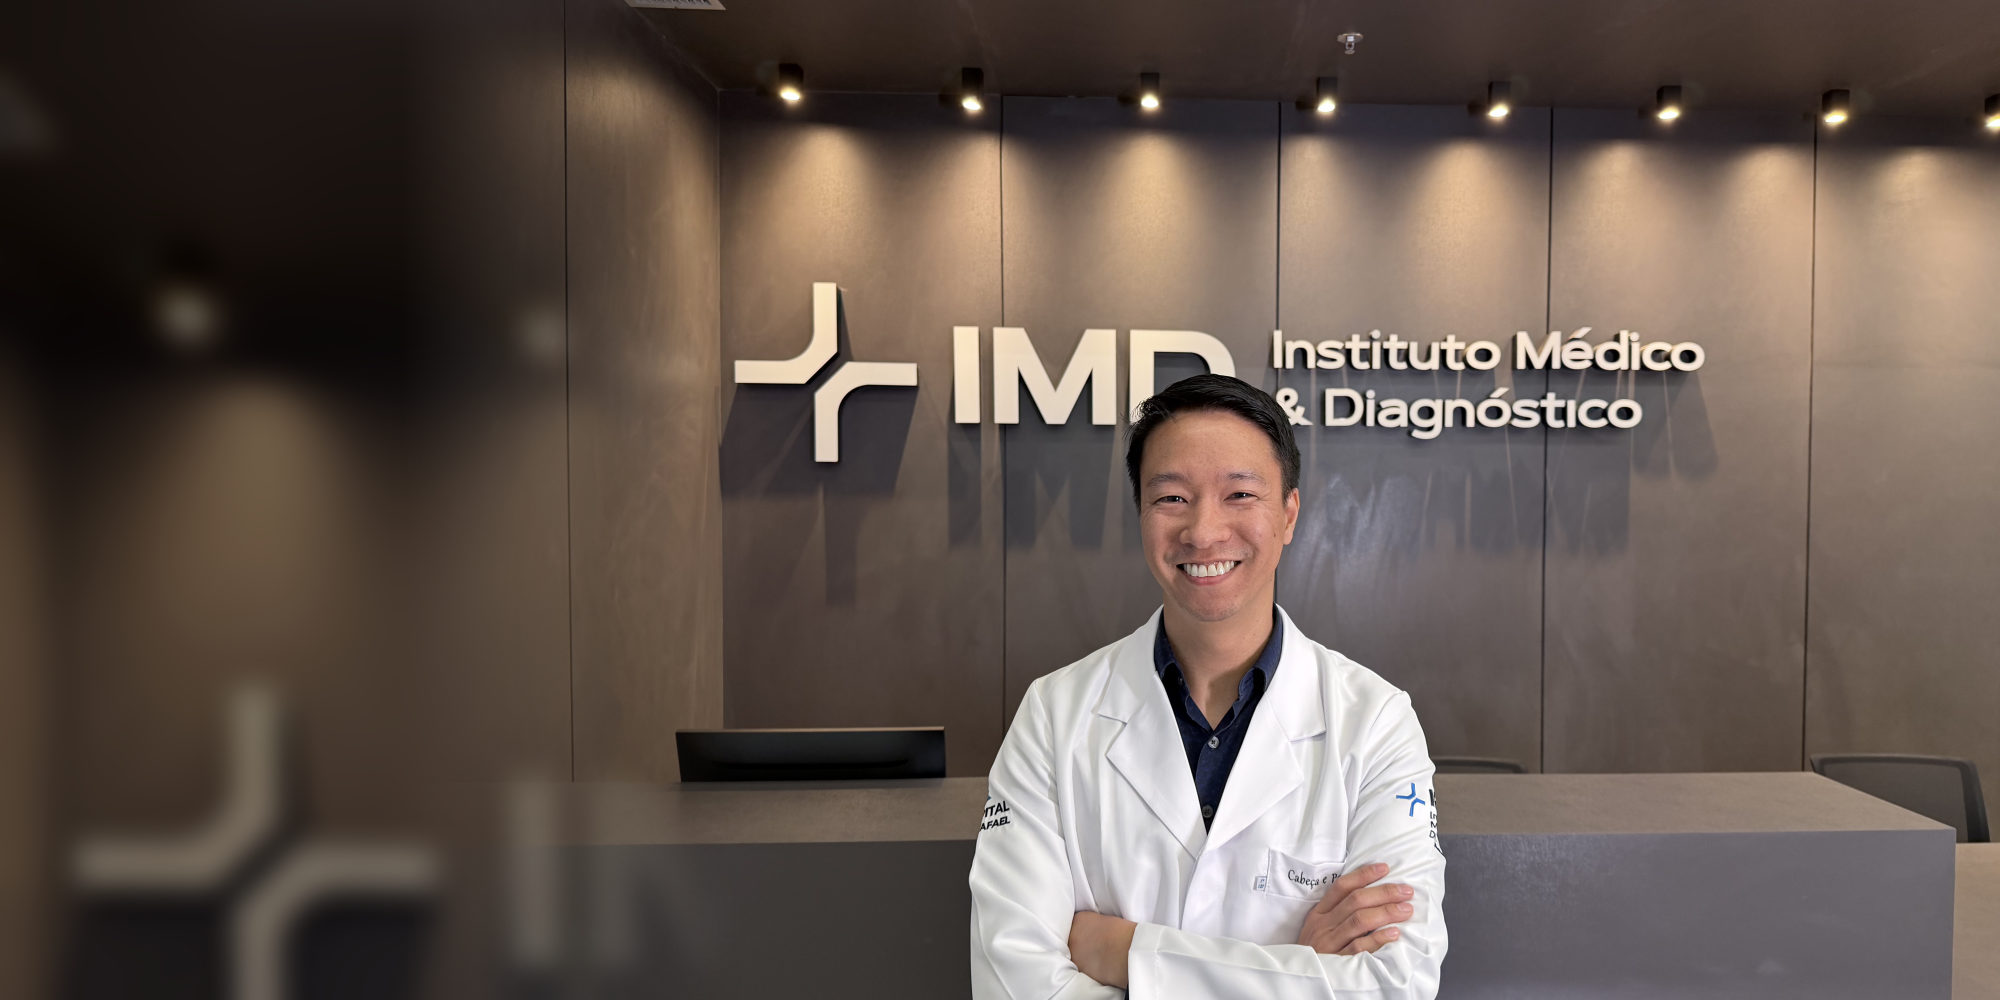
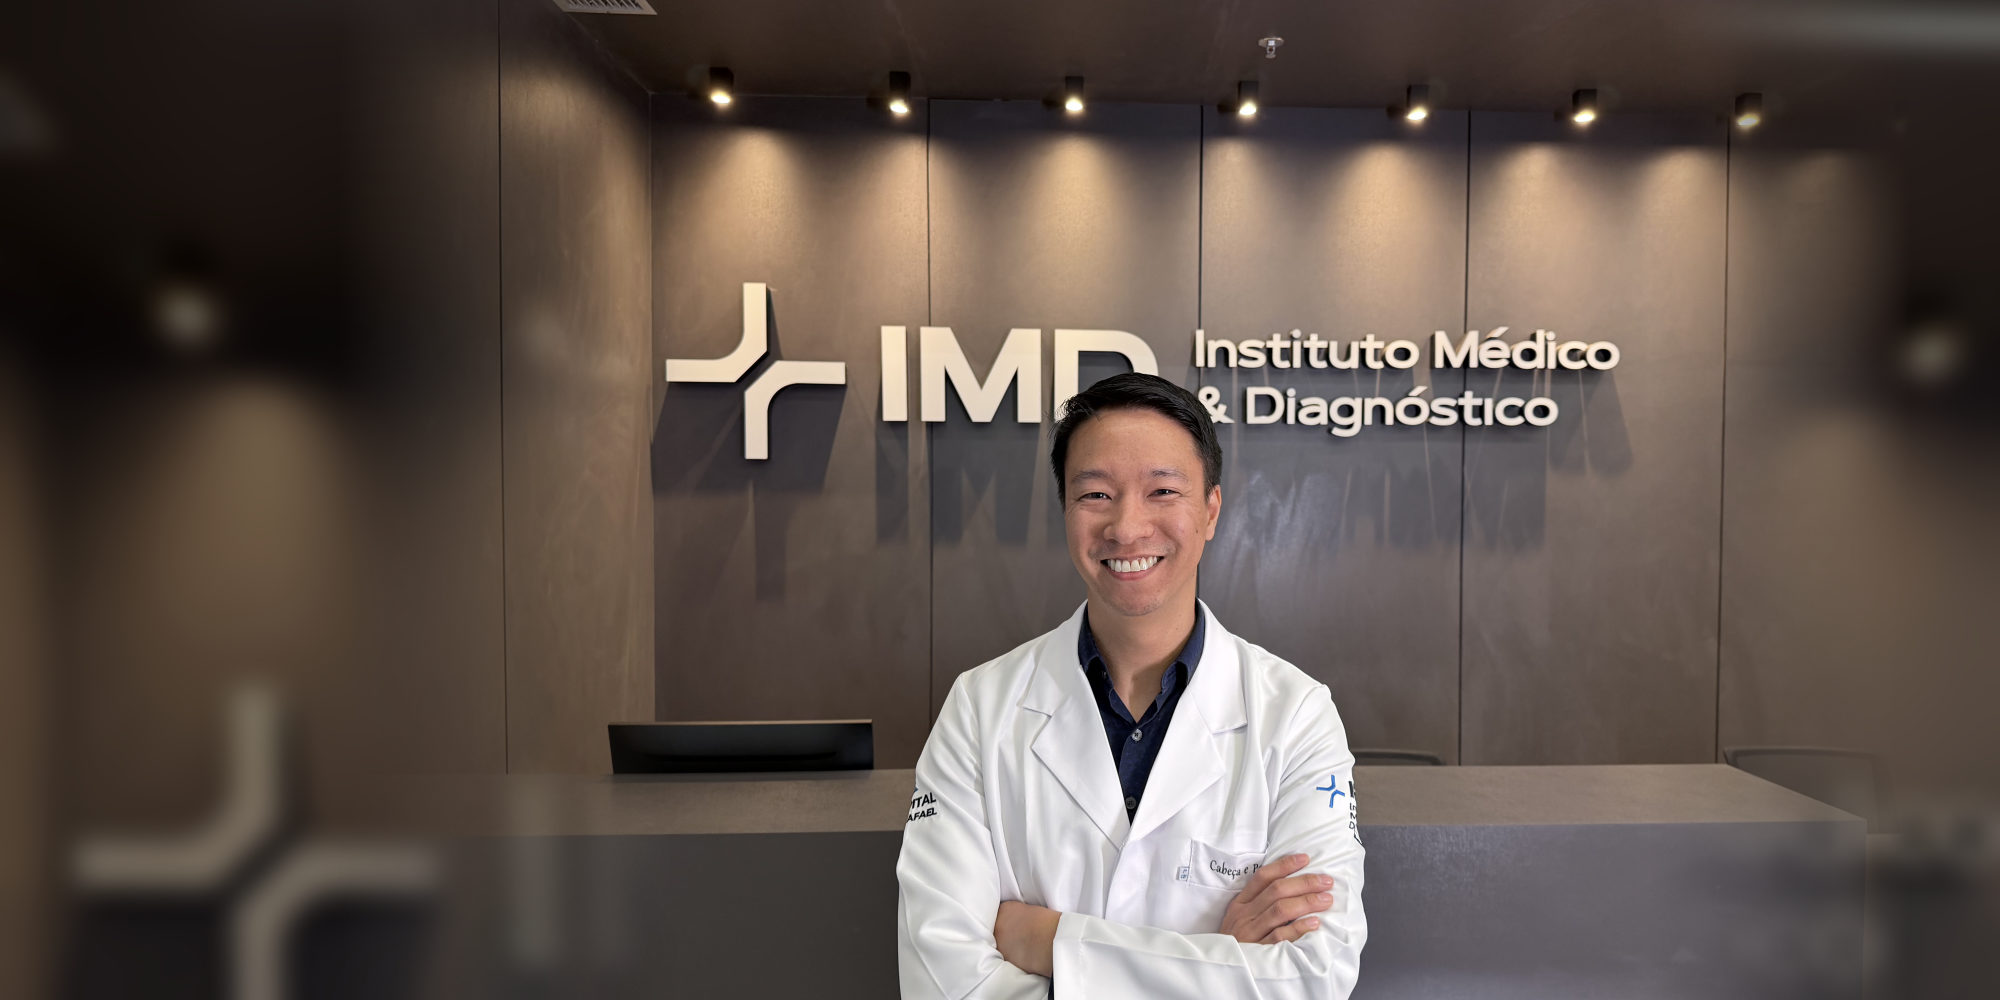
style(especialidades): feather nas 2 bordas do hero + pills 2x2
- Recompoe heros com degradê nas bordas esquerda E direita da foto,
  com margem à direita: médico deixa de encostar na borda (fim do
  corte seco), fundindo suave no fundo desfocado dos dois lados.
- Pills do hero em grade 2x2 (2 em cima, 2 embaixo) via prop pills2x2
  no ServicePageHero; LP ativa. Páginas de serviço inalteradas.

diff --git a/src/components/organisms/service-page-hero.tsx b/src/components/organisms/service-page-hero.tsx
@@ -28,12 +28,14 @@ interface ServicePageHeroProps extends BaseComponentProps {
   data: ServiceHeroData
   /** Trilha de navegação exibida como overlay no topo do hero */
   breadcrumbItems?: BreadcrumbItem[]
+  /** Força as pills em grade 2x2 (2 em cima, 2 embaixo) em todos os breakpoints */
+  pills2x2?: boolean
 }
 
 // -----------------------------------------------------------------------------
 // COMPONENTE
 // -----------------------------------------------------------------------------
-export function ServicePageHero({ data, className, breadcrumbItems }: ServicePageHeroProps) {
+export function ServicePageHero({ data, className, breadcrumbItems, pills2x2 = false }: ServicePageHeroProps) {
   const { ref, hasIntersected } = useIntersection({ threshold: 0.1, once: true })
 
   const { kicker, headline, subheadline, backgroundImage, pills } = data
@@ -154,7 +156,9 @@ export function ServicePageHero({ data, className, breadcrumbItems }: ServicePag
           {pills.length > 0 && (
             <div
               className={cn(
-                "grid grid-cols-2 lg:flex lg:flex-wrap gap-1.5 lg:gap-2",
+                pills2x2
+                  ? "grid grid-cols-2 w-fit gap-1.5 lg:gap-2"
+                  : "grid grid-cols-2 lg:flex lg:flex-wrap gap-1.5 lg:gap-2",
                 "transition-all duration-700 delay-300",
                 hasIntersected ? "opacity-100 translate-y-0" : "opacity-0 translate-y-6"
               )}

diff --git a/src/components/templates/especialidade-lp-template.tsx b/src/components/templates/especialidade-lp-template.tsx
@@ -61,7 +61,7 @@ export function EspecialidadeLPTemplate({
       <EspecialidadeLPHeader />
 
       {/* 1. Hero — CTA WhatsApp único já embutido no organism */}
-      <ServicePageHero data={hero} />
+      <ServicePageHero data={hero} pills2x2 />
 
       {/* 2. O que é / pra quem (pb reduzido — cola melhor no bloco de exames) */}
       <ServiceIntroBlock data={intro} sectionId="sobre" className="!pb-10 lg:!pb-14" />
